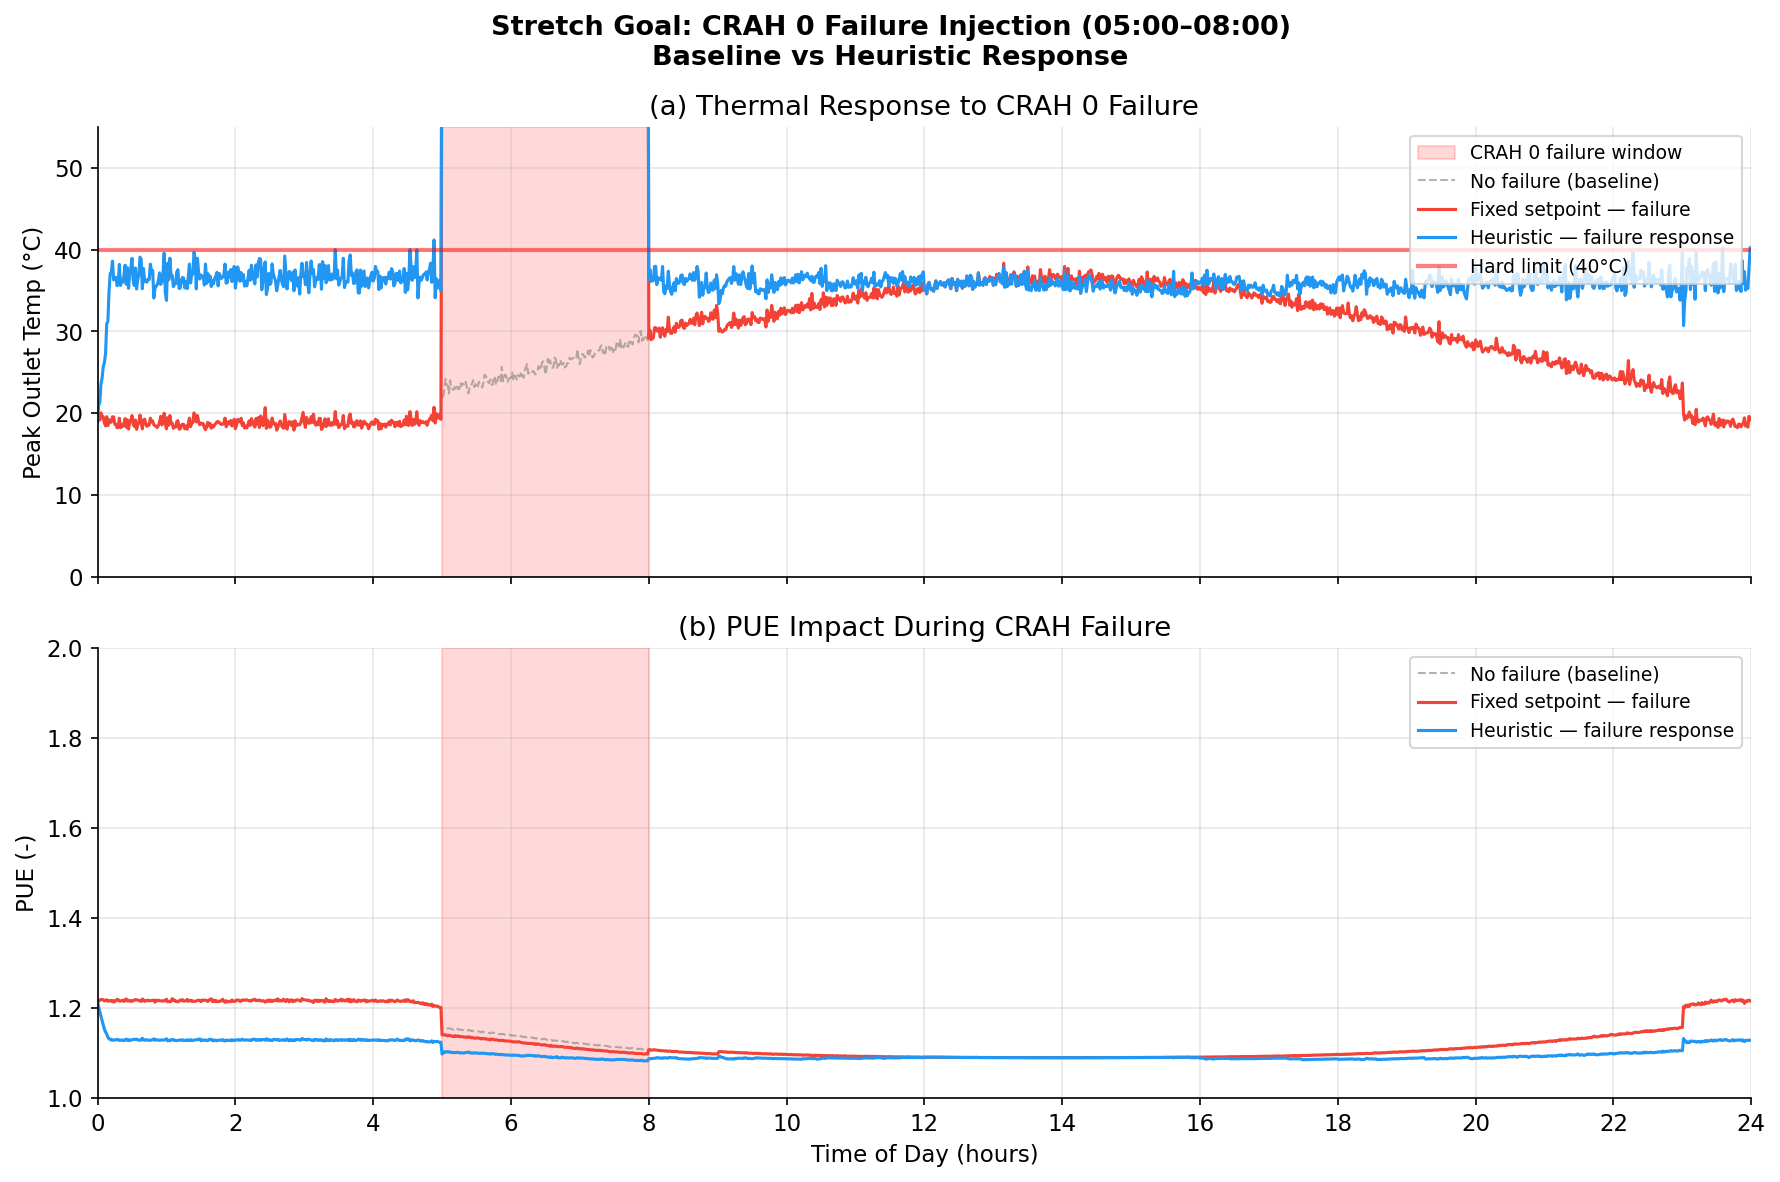
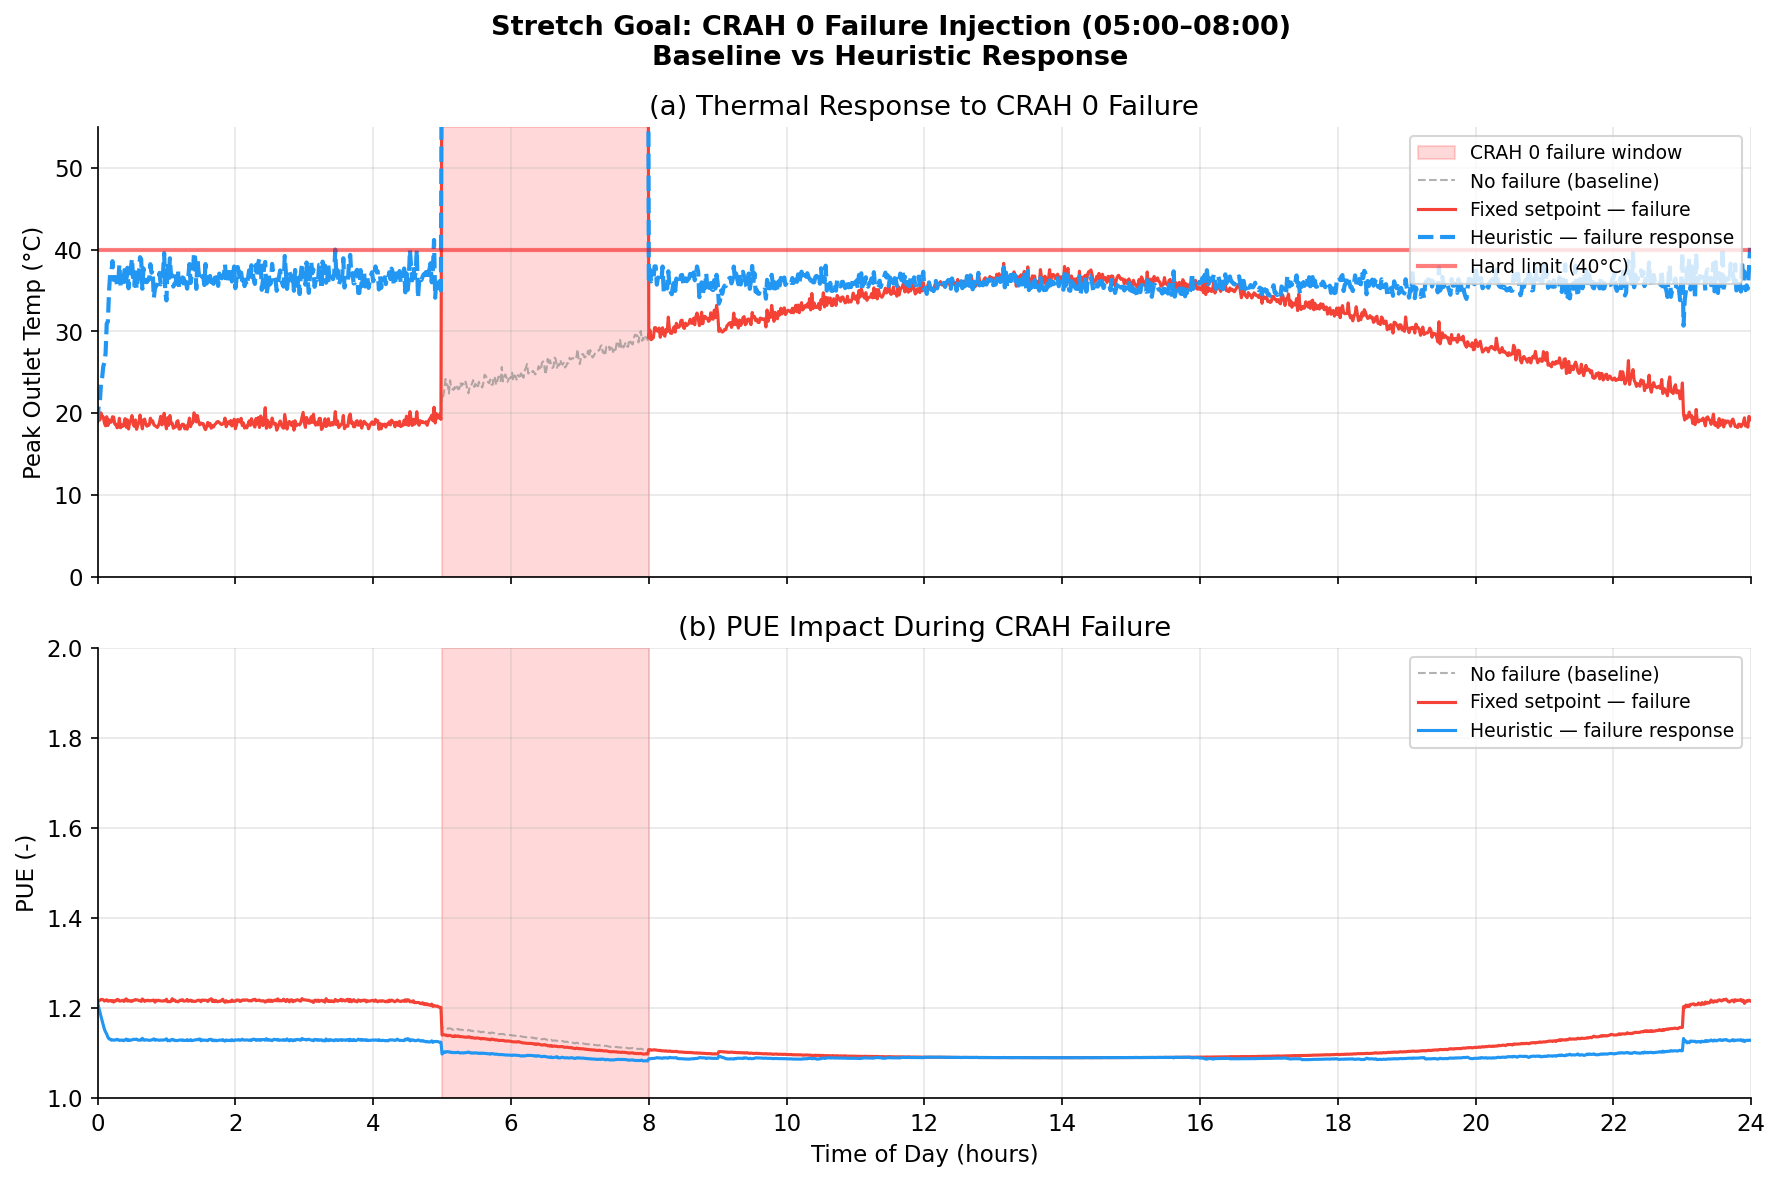
fix(plots): fig5 heuristic line dashed for visibility in CRAH failure plot

diff --git a/notebooks/generate_plots.py b/notebooks/generate_plots.py
@@ -331,7 +331,7 @@ ax.plot(t_hours, results_fail["peak_outlet_c"],
         color="#F44336", linewidth=1.5,
         label="Fixed setpoint — failure")
 ax.plot(t_hours, results_fail_heuristic["peak_outlet_c"],
-        color="#2196F3", linewidth=1.5,
+        color="#2196F3", linewidth=2.0, linestyle="--",
         label="Heuristic — failure response")
 ax.axhline(40.0, color="red", linestyle="-", linewidth=2,
            alpha=0.5, label="Hard limit (40°C)")
